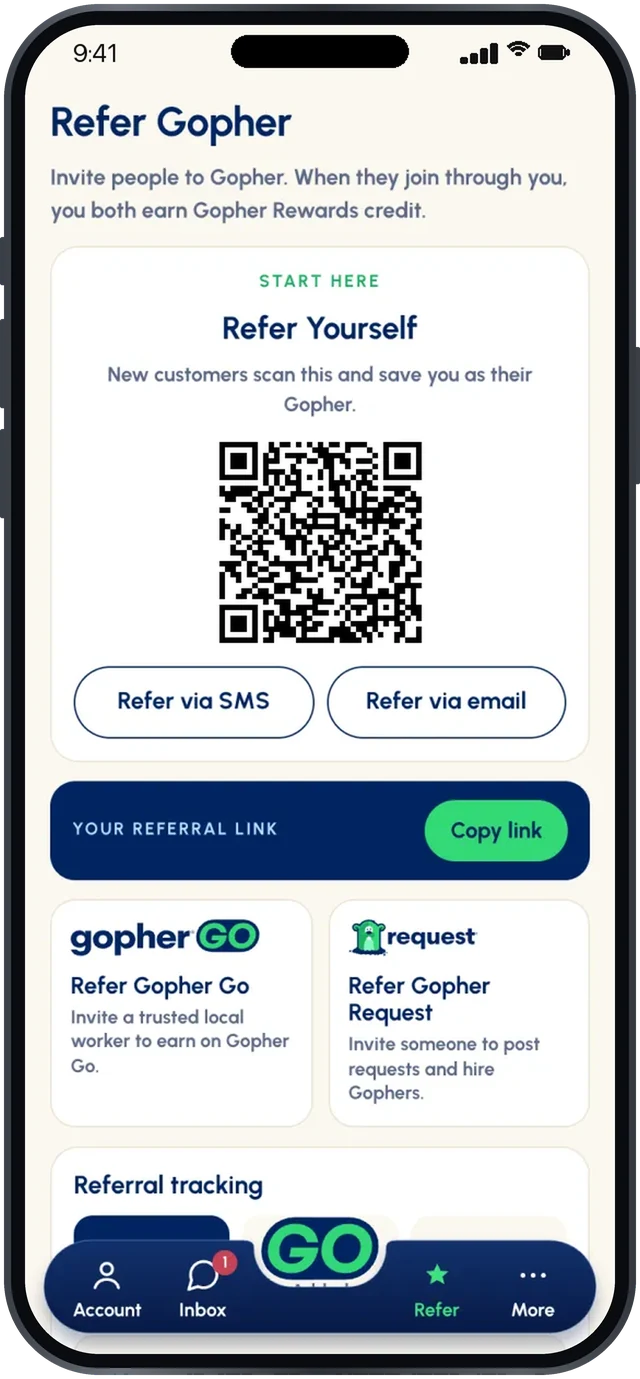
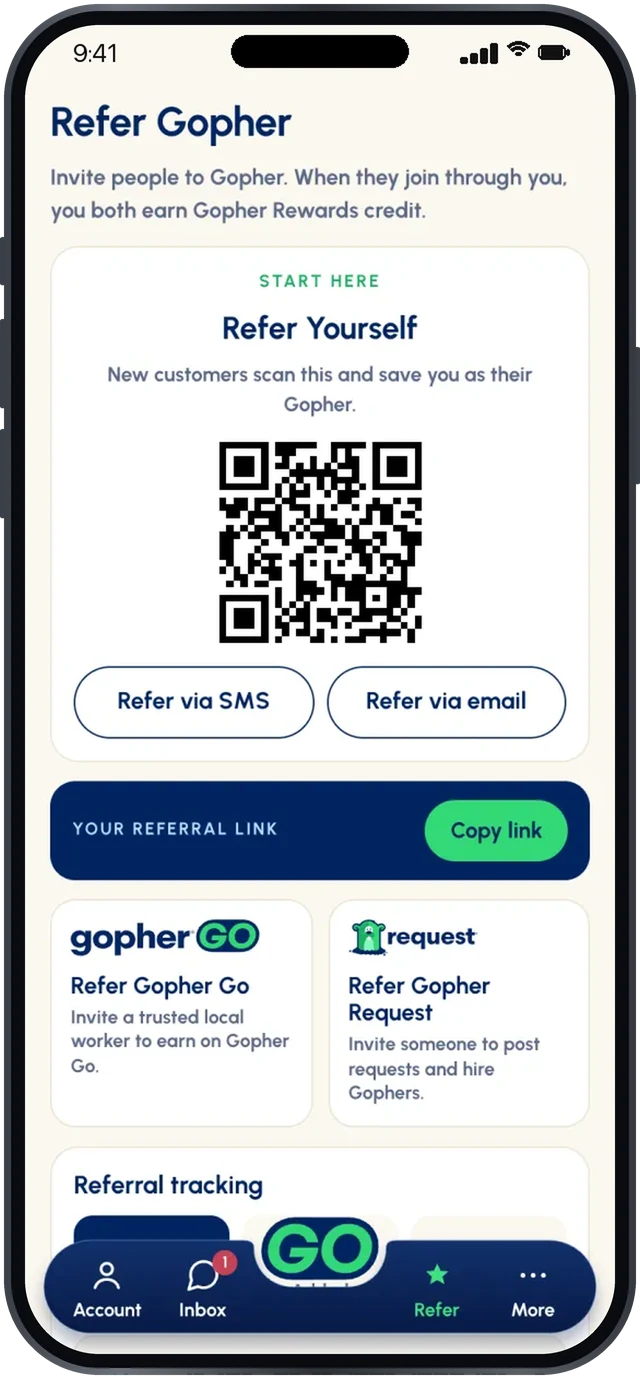
Deploy: Refer Yourself QR without the precise location; old QR image removed (John's go 10/15)

Changed region(s): [[0.3438, 0.3118, 0.6562, 0.4677]]

diff --git a/gopher-go.html b/gopher-go.html
@@ -1160,7 +1160,9 @@
         <!-- The REAL Gopher Go Refer screen (101 capture, 10/13), owner 10/15: real
              screens instead of HTML mock-ups. Its QR is the one this card always
              carried (api.gophergo.io/self-referral/1), re-drawn into the screen;
-             the capture's own QR was a placeholder (example.com). Verified to scan. -->
+             the capture's own QR was a placeholder (example.com). Verified to scan.
+             10/15 (John): NO ?lat=&lon= — it used to carry a precise location. The
+             route reads only the id, and the Go app dropped them too (G40-602 D2). -->
         <img class="gg-feature-phone" src="assets/img/go-refer-yourself-phone.webp"
              alt="The Gopher Go app's Refer Yourself screen, with a scannable QR code, Refer via SMS and Refer via email"
              width="640" height="1379">
